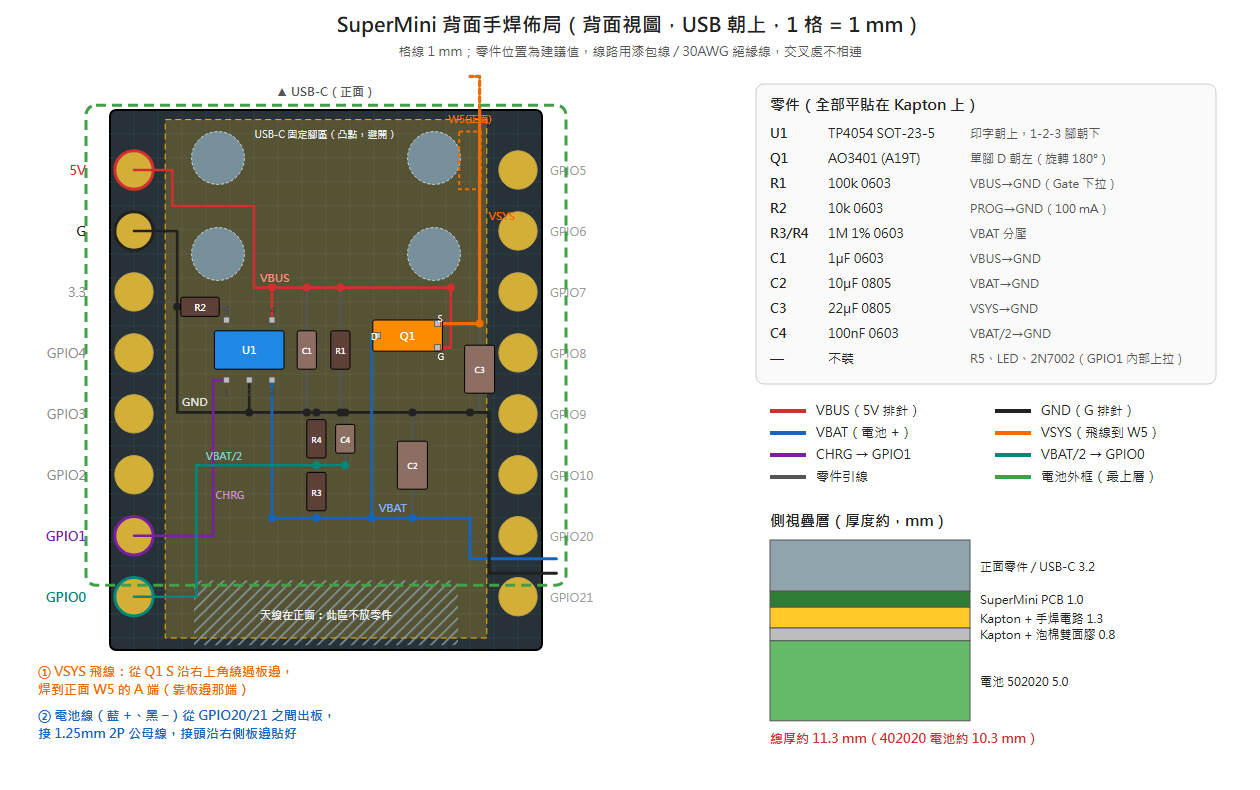
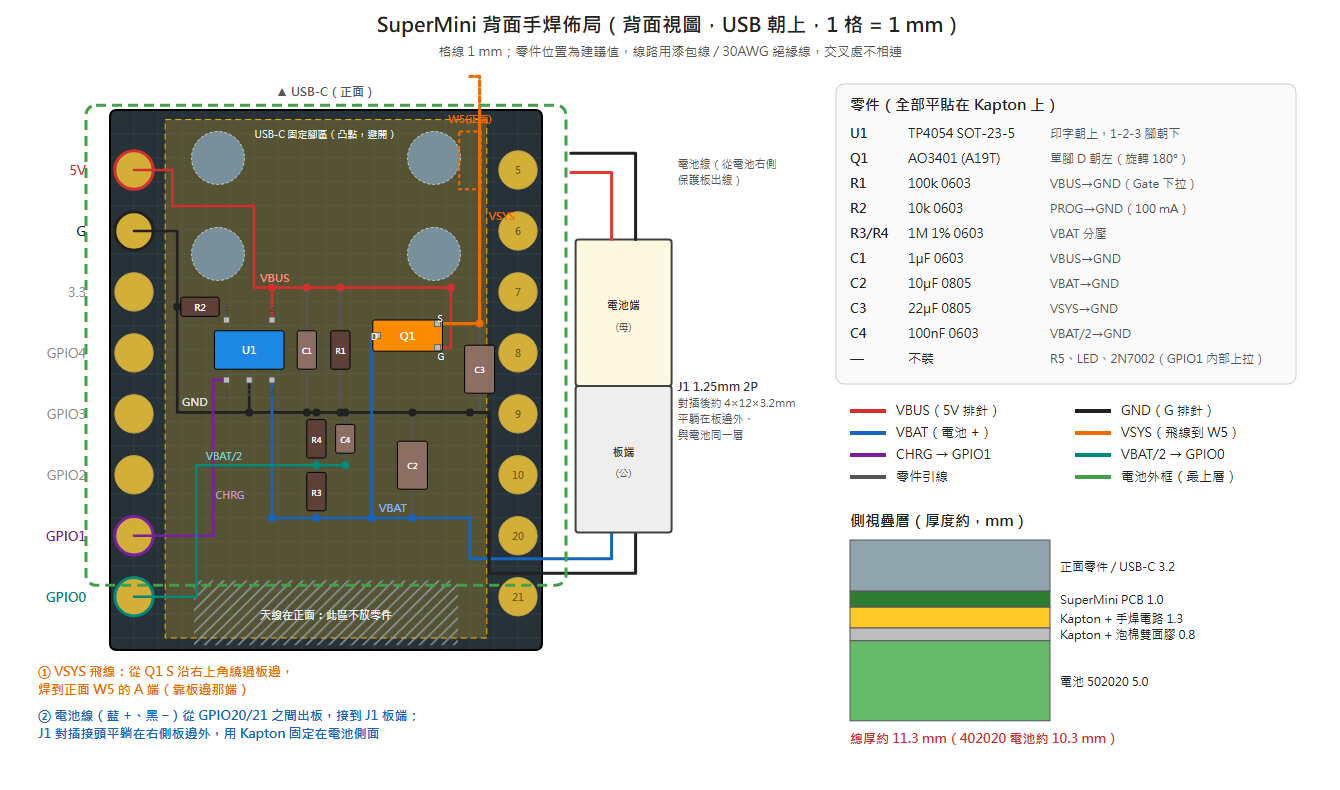
佈局圖加入電池連接器 J1 位置：平躺於右側板邊外
- J1 1.25mm 2P 對插接頭放在 GPIO5–21 那側板邊外，與電池同一層，不增加厚度
- 設計文件補充放置理由、固定方式與替代連接器

diff --git a/battery_management/docs/BACKPACK_V2_DESIGN.md b/battery_management/docs/BACKPACK_V2_DESIGN.md
@@ -109,7 +109,39 @@ SuperMini 是單面板，背面平整（參考 `docs/esp32_c3_supermini_pinout.j
    - S（右上）沿右側往上繞過板邊接 W5
    - G（右下）往上接 VBUS
 6. CHRG（紫）沿左側往下接 GPIO1；VBAT/2（綠）接 GPIO0。
-7. 電池線從右側 GPIO20/21 兩個焊墊之間出板，接 1.25 mm 公母線，接頭沿右側板邊貼好。
+7. 電池線從右側 GPIO20/21 兩個焊墊之間出板，接到 J1 板端（見下一節）。
+
+### 電池連接器 J1 放在哪裡
+J1 放在**右側板邊外（GPIO5–21 那側），平躺貼著板邊**，高度落在電池那一層。
+
+| 位置 | 為什麼不放這裡 |
+|------|----------------|
+| 上方 | 會擋 USB-C 插頭 |
+| 下方 | 會影響天線 |
+| 電路和電池中間 | 對插接頭約 3.2 mm 厚，疊進去會讓總厚度多 3 mm |
+| 左側 | 5V/G/GPIO1/GPIO0 焊墊和走線都在這側 |
+
+右側的 GPIO5–21 這個專案都沒用到，而且電池保護板出線也在右側，線最短。
+
+```
+  背面視圖（USB 朝上）
+  ┌──────────────┐
+  │              │ ← 電池線（從電池右側保護板出來）往下
+  │   電池       │ ┌────┐
+  │  (疊在最上層) │ │電池端│  J1 對插後約 4 × 12 × 3.2 mm
+  │              │ │ (母) │  平躺在板邊外、與電池同一層
+  │              │ ├────┤
+  │              │ │板端 │
+  │              │ │ (公) │
+  │              │ └──┬─┘
+  │      ◄── 板端 pigtail 從 GPIO20/21 之間出板
+  └──────────────┘
+```
+
+- **尺寸**：寬度會多出約 4.5 mm（18 → 約 22.5 mm），厚度不增加（J1 約 3.2 mm，比電池薄）。
+- **固定**：J1 用 Kapton 貼在電池側面，不要貼死在 GPIO 焊墊上，以後要用那幾支腳時才拆得下來。
+- **多餘的線**：電池線多出來的部分沿側邊折好、用膠帶固定。**不要剪電池線**，剪的時候容易讓保護板短路。
+- **想再窄一點**：改用 JST SH 1.0 mm 2P（對插後寬約 3 mm、厚約 2.5 mm），位置相同。
 
 ### 疊層與組裝順序
 1. 拆電源 LED，確認 W5 完整。
